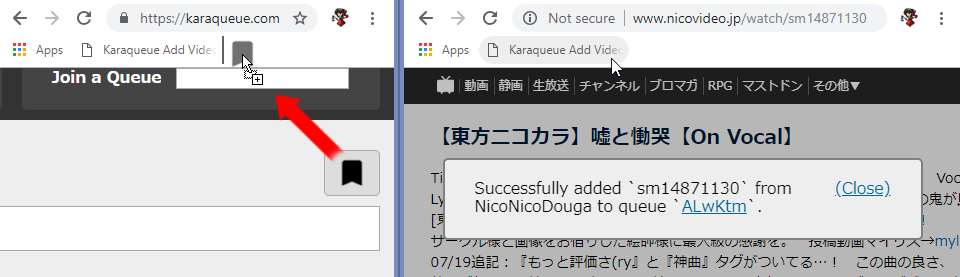
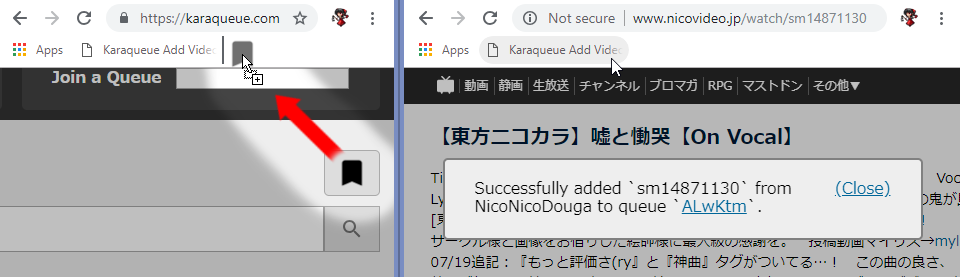
add search button, adjust styles

diff --git a/public/styles/home.css b/public/styles/home.css
@@ -50,12 +50,11 @@ div#joinTheaterError {
   visibility: hidden;
   background-color: #ddd;
   color: red;
-  padding: 10 15;
+  padding: 20 30;
   border: 1px #aaa solid;
   border-radius: 5px;
   position: absolute;
-  margin-top: 10;
-  top: 0;
+  top: -20;
   right: 0;
   z-index: 1;
   cursor: pointer;
@@ -113,7 +112,7 @@ div.bookmarklet {
   border: 1px #aaa solid;
   border-radius: 5px;
   position: absolute;
-  top: 30;
+  top: 0;
   right: 0;
   padding: 5 10;
 }
@@ -134,7 +133,7 @@ p#bookmarkletText {
 div.searchButton {
   background-color: #def;
   display: inline-block;
-  margin: 30 10 10 0;
+  margin: 0 10 10 0;
   padding: 10;
   border: 1px #aaa solid;
   border-radius: 5px;
@@ -145,6 +144,7 @@ div.searchButton {
 div#searchOptions {
   width: 960px;
   white-space: nowrap;
+  margin-top: 30;
 }
 
 div.searchButton:hover {
@@ -156,13 +156,53 @@ div.searchSelected, div.searchSelected:hover {
   color: white;
 }
 
-input.searchInput {
-  box-sizing: border-box;
-  margin: 0 0 20 0;
-  padding: 10;
+div.searchRow {
   width: 100%;
   max-width: 960;
+  position: relative;
+  margin: 0 0 20 0;
+  height: 46;
+}
+
+div.searchInputHolder {
+  position: absolute;
+  top: 0;
+  left: 0px;
+  right: 56px;
+}
+
+input.searchInput {
+  box-sizing: border-box;
+  padding: 10;
+  width: 100%;
   font-size: large;
+  height: 46;
+}
+
+input.searchInput::placeholder {
+  color: #aaa;
+}
+
+button.searchImgHolder {
+  padding: 10 15;
+  border: 1px #aaa solid;
+  background-color: #ddd;
+  position: absolute;
+  top: 0;
+  right: 0;
+  cursor: pointer;
+}
+
+button.searchImgHolder:hover {
+  background-color: #ccc;
+}
+
+button.searchImgHolder img {
+  opacity: 0.5;
+}
+
+button.searchImgHolder:hover img {
+  opacity: 1.0;
 }
 
 div.searchResults {

diff --git a/public/scripts/search.js b/public/scripts/search.js
@@ -81,6 +81,20 @@ function pressedSearch(input, event) {
   if (!isEnter(event)) {
     return;
   }
+  doSearch(input);
+}
+
+function clickSearch() {
+  var input = document.getElementById("searchInput");
+  doSearch(input);
+}
+
+function doSearch(input) {
+  if (input.value.length <= 0) {
+    displayError("Search query cannot be empty.");
+    return;
+  }
+  hideError("Search query cannot be empty.");
   removeAllChildren(getYoutubeResults());
   removeAllChildren(getNicovideoResults());
 

diff --git a/public/scripts/home.js b/public/scripts/home.js
@@ -10,8 +10,11 @@ function displayError(text) {
   error.style.visibility = "visible";
 }
 
-function hideError() {
+function hideError(previousValue) {
   var error = document.getElementById("joinTheaterError");
+  if (previousValue != null && previousValue != error.innerHTML) {
+    return;
+  }
   error.innerHTML = "";
   error.style.visibility = "hidden";
 }

diff --git a/private/search.php b/private/search.php
@@ -11,7 +11,14 @@ include_once "youtube.php";
   </div>
 </a>
 <div id="searchOptions"></div>
-<input type="text" class="searchInput" id="searchInput" onkeypress="pressedSearch(this, event)"/>
+<div class="searchRow">
+  <button class="searchImgHolder" onclick="clickSearch()">
+    <img src="images/baseline_search_black_24dp.png">
+  </button>
+  <div class="searchInputHolder">
+    <input type="text" name="q" class="searchInput" id="searchInput" onkeypress="pressedSearch(this, event)" placeholder="Search for videos"/>
+  </div>
+</div>
 
 <div class="searchResults">
   <div id="youtubeResults"></div><div id="nicovideoResults"></div>
